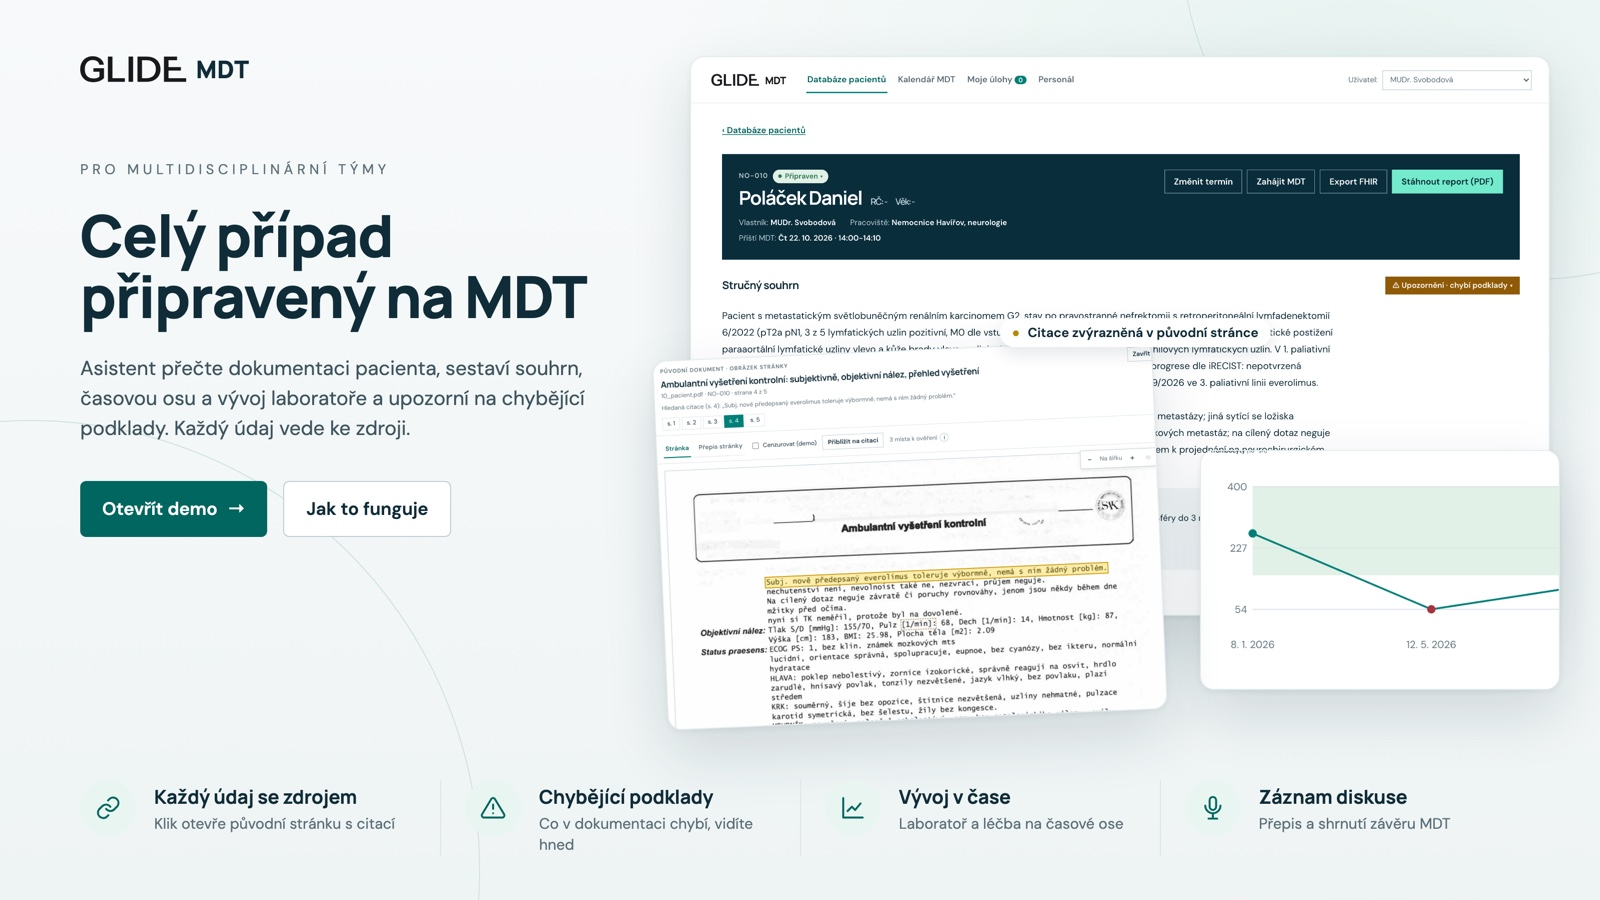
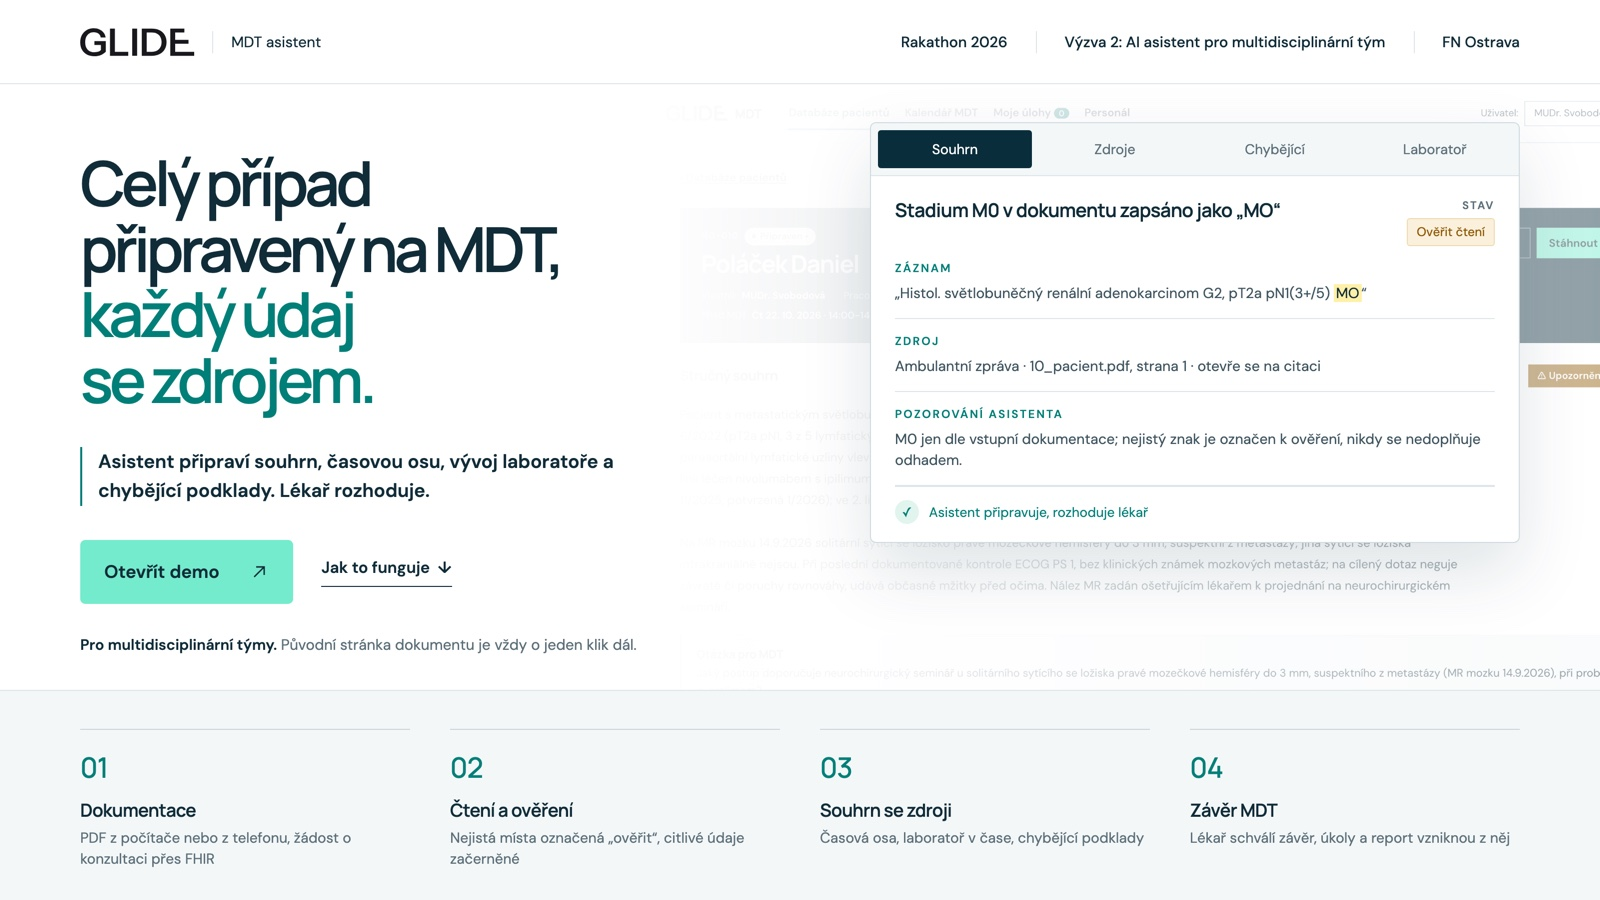
Cover image in the GLIDE site's style: two-tone headline, ruled lede, mint button, evidence card, numbered steps

diff --git a/scripts/cover/cover.html b/scripts/cover/cover.html
@@ -1,62 +1,99 @@
 <!doctype html>
 <html lang="cs"><head><meta charset="utf-8">
-<link href="https://fonts.googleapis.com/css2?family=Manrope:wght@500;700;800&family=DM+Sans:wght@400;500;600&display=swap" rel="stylesheet">
+<!-- Cover image for the project gallery, 1600x900. Rendered by scripts/cover/build.mjs.
+     Design follows glideanalysis.com: its tokens (ink, teal, mint, navy, line, surface), Manrope with tight tracking,
+     a two-tone headline, a ruled subtitle, a mint button with a thin arrow, uppercase teal labels, an evidence card,
+     numbered steps under thin rules, and a photo faded into white (here: a real screen of the app). -->
+<link href="https://fonts.googleapis.com/css2?family=Manrope:wght@500;600;700&family=DM+Sans:wght@400;500;600&display=swap" rel="stylesheet">
 <style>
-  :root { --ink:#102c39; --muted:#5d707a; --accent:#007f78; --accent-ink:#00665f; --line:#dce5e8; --soft:#e8f5f1; --warn:#8f5a06; }
-  * { box-sizing:border-box; margin:0; }
-  body { width:1600px; height:900px; overflow:hidden; font-family:"DM Sans",sans-serif; color:var(--ink);
-    background: radial-gradient(1200px 700px at 85% 10%, #e6f2ef 0%, rgba(230,242,239,0) 60%), linear-gradient(180deg,#f7fafa 0%, #eef4f4 100%); position:relative; }
-  .arc { position:absolute; border:1.5px solid #cfe2de; border-radius:50%; }
-  .logo { position:absolute; left:80px; top:52px; display:flex; align-items:center; gap:10px; }
-  .logo img { height:26px; }
-  .logo span { font-family:Manrope; font-weight:800; font-size:24px; letter-spacing:.5px; }
-  .left { position:absolute; left:80px; top:160px; width:520px; }
-  .eyebrow { font-size:14px; letter-spacing:4px; color:var(--muted); text-transform:uppercase; }
-  h1 { font-family:Manrope; font-weight:800; font-size:58px; line-height:1.06; margin-top:26px; letter-spacing:-1px; }
-  .sub { font-size:20px; line-height:1.5; color:#3f5560; margin-top:26px; }
-  .ctas { display:flex; gap:16px; margin-top:38px; }
-  .btn { height:56px; padding:0 22px; display:flex; align-items:center; gap:10px; font-size:18px; font-weight:600; border-radius:6px; }
-  .primary { background:var(--accent-ink); color:#fff; }
-  .ghost { border:1.5px solid #bdcfd5; background:#fff; color:var(--ink); }
-  .card { position:absolute; background:#fff; border-radius:14px; overflow:hidden; box-shadow:0 24px 60px rgba(16,44,57,.14), 0 2px 6px rgba(16,44,57,.06); border:1px solid #e3ecee; }
-  .card .shot { position:absolute; background-repeat:no-repeat; }
-  .main { left:690px; top:56px; width:860px; height:560px; }
-  .main .shot { left:0; top:0; width:860px; height:560px; background-image:url(shots/overview.png); background-size:860px auto; background-position:0 0; }
-  .src { left:660px; top:350px; width:500px; height:370px; transform:rotate(-2.5deg); }
-  .src .shot { inset:0; background-image:url(shots/source.png); background-size:700px auto; background-position:-188px -2px; }
-  .labs { left:1200px; top:450px; width:360px; height:240px; }
-  .labs .shot { inset:0; background-image:url(shots/labs.png); background-size:640px auto; background-position:-14px -150px; }
-  .tag { position:absolute; font-size:13px; font-weight:600; padding:6px 12px; border-radius:999px; background:#fff; box-shadow:0 6px 18px rgba(16,44,57,.12); display:flex; gap:8px; align-items:center; }
-  .feats { position:absolute; left:80px; right:80px; bottom:44px; display:grid; grid-template-columns:repeat(4,1fr); }
-  .feat { display:flex; gap:18px; align-items:flex-start; padding:0 24px; border-left:1px solid var(--line); }
-  .feat:first-child { border-left:none; padding-left:0; }
-  .ico { flex:none; width:56px; height:56px; border-radius:50%; background:var(--soft); display:grid; place-items:center; }
-  .ico svg { width:26px; height:26px; stroke:var(--accent-ink); fill:none; stroke-width:1.8; stroke-linecap:round; stroke-linejoin:round; }
-  .feat b { display:block; font-family:Manrope; font-weight:700; font-size:19px; margin-top:4px; }
-  .feat span { display:block; font-size:15px; color:var(--muted); margin-top:4px; line-height:1.4; }
+  :root { --ink:#102c39; --muted:#5d707a; --navy:#092d3b; --teal:#007f78; --mint:#74ebcc; --line:#dce5e8; --surface:#f3f7f8; --amber:#8f5a06; --amber-soft:#fbf0dc; }
+  * { box-sizing:border-box; margin:0; padding:0; }
+  body { width:1600px; height:900px; overflow:hidden; font-family:"DM Sans",Arial,sans-serif; color:var(--ink); background:#fff; position:relative; }
+
+  /* Header, as on the GLIDE site: logo, a thin divider, a product label; the event on the right. */
+  .top { position:absolute; left:0; right:0; top:0; height:84px; display:flex; align-items:center; padding:0 80px; border-bottom:1px solid var(--line); background:rgba(255,255,255,.96); z-index:3; }
+  .top img { height:28px; }
+  .top .div { width:1px; height:22px; background:var(--line); margin:0 18px; }
+  .top .label { font-size:15px; }
+  .top .right { margin-left:auto; display:flex; align-items:center; gap:28px; font-size:15px; font-weight:500; }
+  .top .dark { background:var(--navy); color:#fff; font-weight:600; padding:14px 20px; border-radius:5px; display:flex; gap:22px; align-items:center; }
+
+  /* The app screen, faded into white from the left like the photo in GLIDE's hero. */
+  .screen { position:absolute; left:640px; top:84px; width:960px; height:606px; background:url(shots/overview.png) 0 0/1100px auto no-repeat; }
+  .screen::after { content:""; position:absolute; inset:0; background:linear-gradient(90deg,#fff 0%,rgba(255,255,255,.94) 25%,rgba(255,255,255,.7) 60%,rgba(255,255,255,.55) 100%); }
+
+  .hero { position:absolute; left:80px; top:150px; width:640px; z-index:2; }
+  h1 { font-family:Manrope,Arial,sans-serif; font-weight:600; font-size:62px; line-height:1.06; letter-spacing:-0.065em; }
+  h1 .t { color:var(--teal); }
+  .lede { margin-top:34px; padding-left:16px; border-left:2px solid var(--teal); font-size:19px; font-weight:600; line-height:1.55; max-width:560px; }
+  .ctas { display:flex; align-items:center; gap:28px; margin-top:34px; }
+  .mint { background:var(--mint); color:var(--ink); font-weight:600; font-size:18px; height:64px; padding:0 24px; border-radius:5px; display:flex; align-items:center; gap:30px; }
+  .mint svg, .dark svg { width:20px; height:20px; stroke:currentColor; stroke-width:1.4; fill:none; }
+  .link { font-weight:600; font-size:16px; padding-bottom:8px; border-bottom:1px solid var(--ink); }
+  .note { margin-top:30px; font-size:15px; color:var(--muted); line-height:1.5; max-width:560px; }
+  .note b { color:var(--ink); }
+
+  /* Evidence card, after GLIDE's "Every finding comes with its evidence": tabs, a finding with a badge,
+     labelled sections, and the closing check. Content is a real observation from case 10. */
+  .card { position:absolute; left:870px; top:122px; width:650px; background:#fff; border:1px solid #cfdbdf; border-radius:6px; box-shadow:0 30px 70px rgba(9,45,59,.13); z-index:2; overflow:hidden; }
+  .tabs { display:grid; grid-template-columns:repeat(4,1fr); gap:6px; padding:7px; background:var(--surface); border-bottom:1px solid var(--line); }
+  .tabs span { text-align:center; font-size:14px; color:var(--muted); padding:10px 0; border-radius:3px; }
+  .tabs .on { background:var(--navy); color:#fff; }
+  .body { padding:22px 24px 18px; }
+  .row1 { display:flex; justify-content:space-between; gap:20px; }
+  .row1 h3 { font-family:Manrope; font-weight:600; font-size:19px; letter-spacing:-0.02em; line-height:1.3; }
+  .sev { text-align:right; flex:none; }
+  .sev small { display:block; font-size:11px; letter-spacing:.14em; color:var(--muted); font-weight:600; }
+  .badge { display:inline-block; margin-top:6px; font-size:12.5px; padding:5px 9px; border-radius:3px; background:var(--amber-soft); color:var(--amber); border:1px solid #efd9ae; }
+  .sec { padding:15px 0 13px; border-bottom:1px solid var(--line); }
+  .sec:last-of-type { border-bottom:none; }
+  .lab { font-size:11.5px; letter-spacing:.14em; font-weight:600; color:var(--teal); text-transform:uppercase; }
+  .sec p { margin-top:7px; font-size:14.5px; line-height:1.5; color:#3f5560; }
+  .sec mark { background:#fff0a8; color:var(--ink); padding:0 2px; }
+  .ok { display:flex; align-items:center; gap:10px; padding-top:13px; border-top:1px solid var(--line); font-size:13.5px; color:var(--teal); }
+  .ok i { width:24px; height:24px; border-radius:50%; background:#e1f4ee; display:grid; place-items:center; font-style:normal; font-size:13px; }
+
+  /* Numbered steps under thin rules, as in GLIDE's "How it works". */
+  .steps { position:absolute; left:0; right:0; bottom:0; height:210px; background:var(--surface); border-top:1px solid var(--line); padding:38px 80px 0; display:grid; grid-template-columns:repeat(4,1fr); gap:40px; }
+  .step { border-top:1px solid #c9d6da; padding-top:18px; }
+  .step .n { font-family:Manrope; font-weight:400; font-size:28px; color:var(--teal); letter-spacing:-0.02em; }
+  .step b { display:block; margin-top:12px; font-family:Manrope; font-weight:600; font-size:18px; letter-spacing:-0.02em; }
+  .step span { display:block; margin-top:6px; font-size:14.5px; color:var(--muted); line-height:1.45; }
 </style></head>
 <body>
-  <div class="arc" style="width:900px;height:900px;left:-420px;top:420px"></div>
-  <div class="arc" style="width:700px;height:700px;left:1180px;top:-420px"></div>
-
-  <div class="logo"><img src="../../mocks/src/brand/glide.svg" alt=""><span>MDT</span></div>
-
-  <div class="left">
-    <div class="eyebrow">Pro multidisciplinární týmy</div>
-    <h1>Celý případ připravený na&nbsp;MDT</h1>
-    <p class="sub">Asistent přečte dokumentaci pacienta, sestaví souhrn, časovou osu a&nbsp;vývoj laboratoře a&nbsp;upozorní na chybějící podklady. Každý údaj vede ke zdroji.</p>
-    <div class="ctas"><div class="btn primary">Otevřít demo <span>→</span></div><div class="btn ghost">Jak to funguje</div></div>
+  <div class="top">
+    <img src="../../mocks/src/brand/glide.svg" alt="GLIDE"><div class="div"></div><span class="label">MDT asistent</span>
+    <div class="right"><span>Rakathon 2026</span><span class="div" style="margin:0"></span><span>Výzva 2: AI asistent pro multidisciplinární tým</span><span class="div" style="margin:0"></span><span>FN Ostrava</span></div>
   </div>
 
-  <div class="card main"><div class="shot"></div></div>
-  <div class="card labs"><div class="shot"></div></div>
-  <div class="card src"><div class="shot"></div></div>
-  <div class="tag" style="left:1000px;top:318px"><span style="color:#b38b00">●</span> Citace zvýrazněná v původní stránce</div>
+  <div class="screen"></div>
 
-  <div class="feats">
-    <div class="feat"><div class="ico"><svg viewBox="0 0 24 24"><path d="M10 13a5 5 0 0 0 7.5.5l3-3a5 5 0 0 0-7-7l-1.7 1.7"/><path d="M14 11a5 5 0 0 0-7.5-.5l-3 3a5 5 0 0 0 7 7l1.7-1.7"/></svg></div><div><b>Každý údaj se zdrojem</b><span>Klik otevře původní stránku s&nbsp;citací</span></div></div>
-    <div class="feat"><div class="ico"><svg viewBox="0 0 24 24"><path d="M10.3 3.9 1.8 18a2 2 0 0 0 1.7 3h17a2 2 0 0 0 1.7-3L13.7 3.9a2 2 0 0 0-3.4 0z"/><path d="M12 9v4M12 17h.01"/></svg></div><div><b>Chybějící podklady</b><span>Co v dokumentaci chybí, vidíte hned</span></div></div>
-    <div class="feat"><div class="ico"><svg viewBox="0 0 24 24"><path d="M3 3v18h18"/><path d="m7 15 4-4 3 3 5-6"/></svg></div><div><b>Vývoj v čase</b><span>Laboratoř a léčba na časové ose</span></div></div>
-    <div class="feat"><div class="ico"><svg viewBox="0 0 24 24"><rect x="9" y="2" width="6" height="12" rx="3"/><path d="M19 10a7 7 0 0 1-14 0M12 17v5M8 22h8"/></svg></div><div><b>Záznam diskuse</b><span>Přepis a shrnutí závěru MDT</span></div></div>
+  <div class="hero">
+    <h1>Celý případ<br>připravený na MDT,<br><span class="t">každý údaj<br>se zdrojem.</span></h1>
+    <p class="lede">Asistent připraví souhrn, časovou osu, vývoj laboratoře a chybějící podklady. Lékař rozhoduje.</p>
+    <div class="ctas">
+      <span class="mint">Otevřít demo <svg viewBox="0 0 20 20"><path d="M5 15 15 5M7 5h8v8"/></svg></span>
+      <span class="link">Jak to funguje&nbsp; ↓</span>
+    </div>
+    <p class="note"><b>Pro multidisciplinární týmy.</b> Původní stránka dokumentu je vždy o jeden klik dál.</p>
+  </div>
+
+  <div class="card">
+    <div class="tabs"><span class="on">Souhrn</span><span>Zdroje</span><span>Chybějící</span><span>Laboratoř</span></div>
+    <div class="body">
+      <div class="row1"><h3>Stadium M0 v dokumentu zapsáno jako „MO“</h3>
+        <div class="sev"><small>STAV</small><span class="badge">Ověřit čtení</span></div></div>
+      <div class="sec"><div class="lab">Záznam</div><p>„Histol. světlobuněčný renální adenokarcinom G2, pT2a pN1(3+/5) <mark>MO</mark>“</p></div>
+      <div class="sec"><div class="lab">Zdroj</div><p>Ambulantní zpráva · 10_pacient.pdf, strana 1 · otevře se na citaci</p></div>
+      <div class="sec"><div class="lab">Pozorování asistenta</div><p>M0 jen dle vstupní dokumentace; nejistý znak je označen k ověření, nikdy se nedoplňuje odhadem.</p></div>
+      <div class="ok"><i>✓</i>Asistent připravuje, rozhoduje lékař</div>
+    </div>
+  </div>
+
+  <div class="steps">
+    <div class="step"><div class="n">01</div><b>Dokumentace</b><span>PDF z počítače nebo z telefonu, žádost o konzultaci přes FHIR</span></div>
+    <div class="step"><div class="n">02</div><b>Čtení a ověření</b><span>Nejistá místa označená „ověřit“, citlivé údaje začerněné</span></div>
+    <div class="step"><div class="n">03</div><b>Souhrn se zdroji</b><span>Časová osa, laboratoř v čase, chybějící podklady</span></div>
+    <div class="step"><div class="n">04</div><b>Závěr MDT</b><span>Lékař schválí závěr, úkoly a report vzniknou z něj</span></div>
   </div>
 </body></html>
